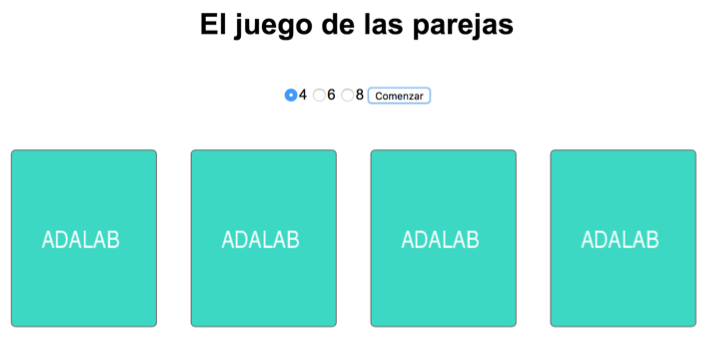
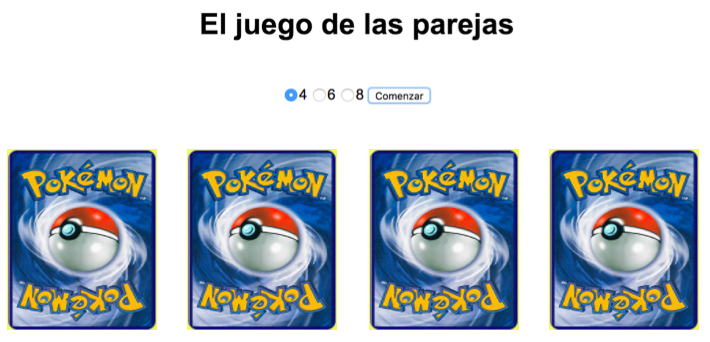
Change card reverse

diff --git a/docs/assets/css/main.css b/docs/assets/css/main.css
@@ -1,114 +1,1 @@
-.body {
-    margin: 0;
-    padding: 0;
-    font-family: Arial, Helvetica, sans-serif;
-    background-image: -webkit-gradient(linear, left top, right top, from(lightgoldenrodyellow), to(#ecf022));
-    background-image: linear-gradient(to right, lightgoldenrodyellow, #ecf022);
-}
-
-.header {
-    background-image: -webkit-gradient(linear, left top, right top, from(black), to(darkgray));
-    background-image: linear-gradient(to right, black, darkgray);
-    height: 35vh;
-    display: -webkit-box;
-    display: -ms-flexbox;
-    display: flex;
-    -webkit-box-align: center;
-    -ms-flex-align: center;
-    align-items: center;
-    -webkit-box-pack: center;
-    -ms-flex-pack: center;
-    justify-content: center;
-}
-
-.options {
-    display: -webkit-box;
-    display: -ms-flexbox;
-    display: flex;
-    -webkit-box-pack: center;
-    -ms-flex-pack: center;
-    justify-content: center;
-    -webkit-box-align: baseline;
-    -ms-flex-align: baseline;
-    align-items: baseline;
-}
-
-.gif-1 {
-    margin-right: 30px;
-    border-radius: 10px 0px 0px 10px;
-}
-
-.option {
-    margin-right: 15px;
-}
-
-.section-1 {
-    display: -webkit-box;
-    display: -ms-flexbox;
-    display: flex;
-    margin: 50px 80px;
-    font-size: 25px;
-    border: 2px solid yellow;
-    border-radius: 10px;
-    background-color: white;
-}
-
-input {
-    width: 20px;
-    height: 20px;
-}
-
-.start-game-button {
-    background-image: -webkit-gradient(linear, left top, right top, from(aqua), to(blue));
-    background-image: linear-gradient(to right, aqua, blue);
-    border-radius: 25px;
-    color: yellow;
-    font-weight: bold;
-    outline: none;
-    width: 80px;
-    height: 60px;
-    font-size: 25px;
-    margin-left: 20px;
-}
-
-.cards-list {
-    display: -webkit-box;
-    display: -ms-flexbox;
-    display: flex;
-    -ms-flex-wrap: wrap;
-    flex-wrap: wrap;
-}
-
-.show-result-item {
-    width: 160px;
-    height: 195px;
-    border-radius: 10px;
-    border: 1px solid gray;
-    margin: 15px;
-    display: -webkit-box;
-    display: -ms-flexbox;
-    display: flex;
-    -webkit-box-align: center;
-    -ms-flex-align: center;
-    align-items: center;
-    -webkit-box-pack: center;
-    -ms-flex-pack: center;
-    justify-content: center;
-    background-image: url("https://via.placeholder.com/160x195/30d9c4/ffffff/?text=ADALAB");
-}
-
-.show-result-item-active {
-    background-image: none;
-    background-color: white;
-}
-
-.show-result-item img {
-    display: none;
-}
-
-.show-result-item-active img {
-    display: -webkit-box;
-    display: -ms-flexbox;
-    display: flex;
-    width: 159px;
-}
+.body {margin: 0;padding: 0;font-family: Arial,Helvetica,sans-serif;background-image: -webkit-gradient(linear, left top, right top, from(lightgoldenrodyellow), to(#ecf022));background-image: linear-gradient(to right, lightgoldenrodyellow, #ecf022);}.header {background-image: -webkit-gradient(linear, left top, right top, from(black), to(darkgray));background-image: linear-gradient(to right, black, darkgray);height: 35vh;display: -webkit-box;display: -ms-flexbox;display: flex;-webkit-box-align: center;-ms-flex-align: center;align-items: center;-webkit-box-pack: center;-ms-flex-pack: center;justify-content: center;}.options {display: -webkit-box;display: -ms-flexbox;display: flex;-webkit-box-pack: center;-ms-flex-pack: center;justify-content: center;-webkit-box-align: baseline;-ms-flex-align: baseline;align-items: baseline;}.gif-1 {margin-right: 30px;border-radius: 10px 0px 0px 10px;}.option {margin-right: 15px;}.section-1 {display: -webkit-box;display: -ms-flexbox;display: flex;margin: 50px 80px;font-size: 25px;border: 2px solid yellow;border-radius: 10px;background-color: white;}input {width: 20px;height: 20px;}.start-game-button {background-image: -webkit-gradient(linear, left top, right top, from(aqua), to(blue));background-image: linear-gradient(to right, aqua, blue);border-radius: 25px;color: yellow;font-weight: bold;outline: none;width: 80px;height: 60px;font-size: 25px;margin-left: 20px;}.cards-list {display: -webkit-box;display: -ms-flexbox;display: flex;-ms-flex-wrap: wrap;flex-wrap: wrap;}.show-result-item {width: 160px;height: 195px;border-radius: 10px;border: 1px solid gray;margin: 15px;display: -webkit-box;display: -ms-flexbox;display: flex;-webkit-box-align: center;-ms-flex-align: center;align-items: center;-webkit-box-pack: center;-ms-flex-pack: center;justify-content: center;background-image: url("https://i.ebayimg.com/images/g/2EEAAMXQfFJRU08w/s-l300.jpg");background-size: 100% 100%;}.show-result-item-active {background-image: none;background-color: white;}.show-result-item img {display: none;}.show-result-item-active img {display: -webkit-box;display: -ms-flexbox;display: flex;width: 159px;}

diff --git a/docs/assets/js/main.js b/docs/assets/js/main.js
@@ -1,34 +1,1 @@
-"use strict";
-const NUMBER_OF_CARDS_KEY = "number_of_cards";
-let showResultsContainer = document.body.querySelector("#cards-list"),
-  startGameButton = document.body.querySelector("#start-game-button");
-function setNumberOfCards(e) {
-  localStorage.setItem(NUMBER_OF_CARDS_KEY, e);
-}
-function getNumberOfCards() {
-  return localStorage.getItem(NUMBER_OF_CARDS_KEY);
-}
-function viewPokemonCards() {
-  let e = document.querySelector('input[name="playmethods"]:checked').value;
-  setNumberOfCards(e),
-    fetch(
-      `https://raw.githubusercontent.com/Adalab/cards-data/master/${e}.json`
-    )
-      .then(e => e.json())
-      .then(e => {
-        showResultsContainer.innerHTML = "";
-        for (const t of e) {
-          let e = t.image,
-            n = document.createElement("li");
-          n.className = "show-result-item";
-          let o = document.createElement("img");
-          (o.src = e), n.appendChild(o), showResultsContainer.appendChild(n);
-        }
-      });
-}
-function init() {
-  let e = getNumberOfCards() || 0,
-    t = document.querySelector(`input[name='playmethods'][value='${e}']`);
-  t && (t.checked = !0);
-}
-startGameButton.addEventListener("click", viewPokemonCards), init();
+"use strict";const NUMBER_OF_CARDS_KEY="number_of_cards",FAVORITES_KEY="favorites";let showResultsContainer=document.body.querySelector("#cards-list"),startGameButton=document.body.querySelector("#start-game-button"),counterElem=document.body.querySelector("#counter"),counter=0;function counterIncrement(){counter<=4&&(counter+=1,counterElem.innerText=counter)}function setNumberOfCards(e){localStorage.setItem(NUMBER_OF_CARDS_KEY,e)}function getNumberOfCards(){return localStorage.getItem(NUMBER_OF_CARDS_KEY)}function getLocalStorageFavorites(){let e=localStorage.getItem(FAVORITES_KEY)||"[]";return JSON.parse(e)}function addFavorite(e){let t=getLocalStorageFavorites();t.push(e),localStorage.setItem(FAVORITES_KEY,JSON.stringify(t))}function removeFavorite(e){let t=getLocalStorageFavorites(),o=t.indexOf(e);-1!==o&&t.splice(o,1),localStorage.setItem(FAVORITES_KEY,JSON.stringify(t))}function hasFavorite(e){return-1!==getLocalStorageFavorites().indexOf(e.toString())}function toggleFavorite(e){let t=e.currentTarget;t.classList.toggle("show-result-item-active");let o=t.dataset.showId;o&&(t.classList.contains("show-result-item-active")?addFavorite(o):removeFavorite(o))}function viewPokemonCards(){let e=document.querySelector('input[name="playmethods"]:checked').value;setNumberOfCards(e),fetch(`https://raw.githubusercontent.com/Adalab/cards-data/master/${e}.json`).then(e=>e.json()).then(e=>{showResultsContainer.innerHTML="";for(const t of e){let e=t.image,o=t.pair,r=document.createElement("li");r.className="show-result-item",hasFavorite(t.pair)&&r.classList.add("show-result-item-active"),r.dataset.showId=t.pair;let a=document.createElement("img");a.src=e,r.appendChild(a);let n=document.createElement("p"),c=document.createTextNode(o);n.appendChild(c),r.appendChild(n),r.addEventListener("click",toggleFavorite),r.addEventListener("click",counterIncrement),showResultsContainer.appendChild(r)}})}function init(){let e=getNumberOfCards()||0,t=document.querySelector(`input[name='playmethods'][value='${e}']`);t&&(t.checked=!0)}startGameButton.addEventListener("click",viewPokemonCards),init();

diff --git a/_src/assets/scss/main.scss b/_src/assets/scss/main.scss
@@ -74,7 +74,8 @@ input {
   display: flex;
   align-items: center;
   justify-content: center;
-  background-image: url("https://via.placeholder.com/160x195/30d9c4/ffffff/?text=ADALAB");
+  background-image: url("https://i.ebayimg.com/images/g/2EEAAMXQfFJRU08w/s-l300.jpg");
+  background-size: 100% 100%;
 }
 
 .show-result-item-active {

diff --git a/docs/index.html b/docs/index.html
@@ -40,6 +40,7 @@
             </section>
             <section class="section-2">
                 <ul class="cards-list" id="cards-list"></ul>
+                <p id="counter"></p>
             </section>
         </main>
         <script type="text/javascript" src="assets/js/main.js"></script>

diff --git a/README.md b/README.md
@@ -22,11 +22,11 @@ La aplicación consta de dos partes:
 2. Un listado de cartas, cada una con 2 imágenes que representan las dos caras de una carta ﴾cuando una está visible la otra está oculta﴿.
 
 La imagen para la cara anterior la obtendremos de un servidor y para la posterior usaremos
-https://via.placeholder.com/160x195/30d9c4/ffffff/?text=ADALAB.
+https://i.ebayimg.com/images/g/2EEAAMXQfFJRU08w/s-l300.jpg.
 
 En la imagen del el diseño propuesto podemos ver algunas cartas boca arriba y otras boca abajo.
 
-Para realizar la maquetación básica del ejercicio usaremos Sass y la base de gulp del [Adalab Web Starter Kit](https://github.com/Adalab/Adalab-web-starter-kit).
+Para realizar la maquetación básica del ejercicio usaremos Sass y la base de gulp de este [Web Starter Kit](https://github.com/Adalab/Adalab-web-starter-kit).
 
 ## 2. Inicio de la partida
 
